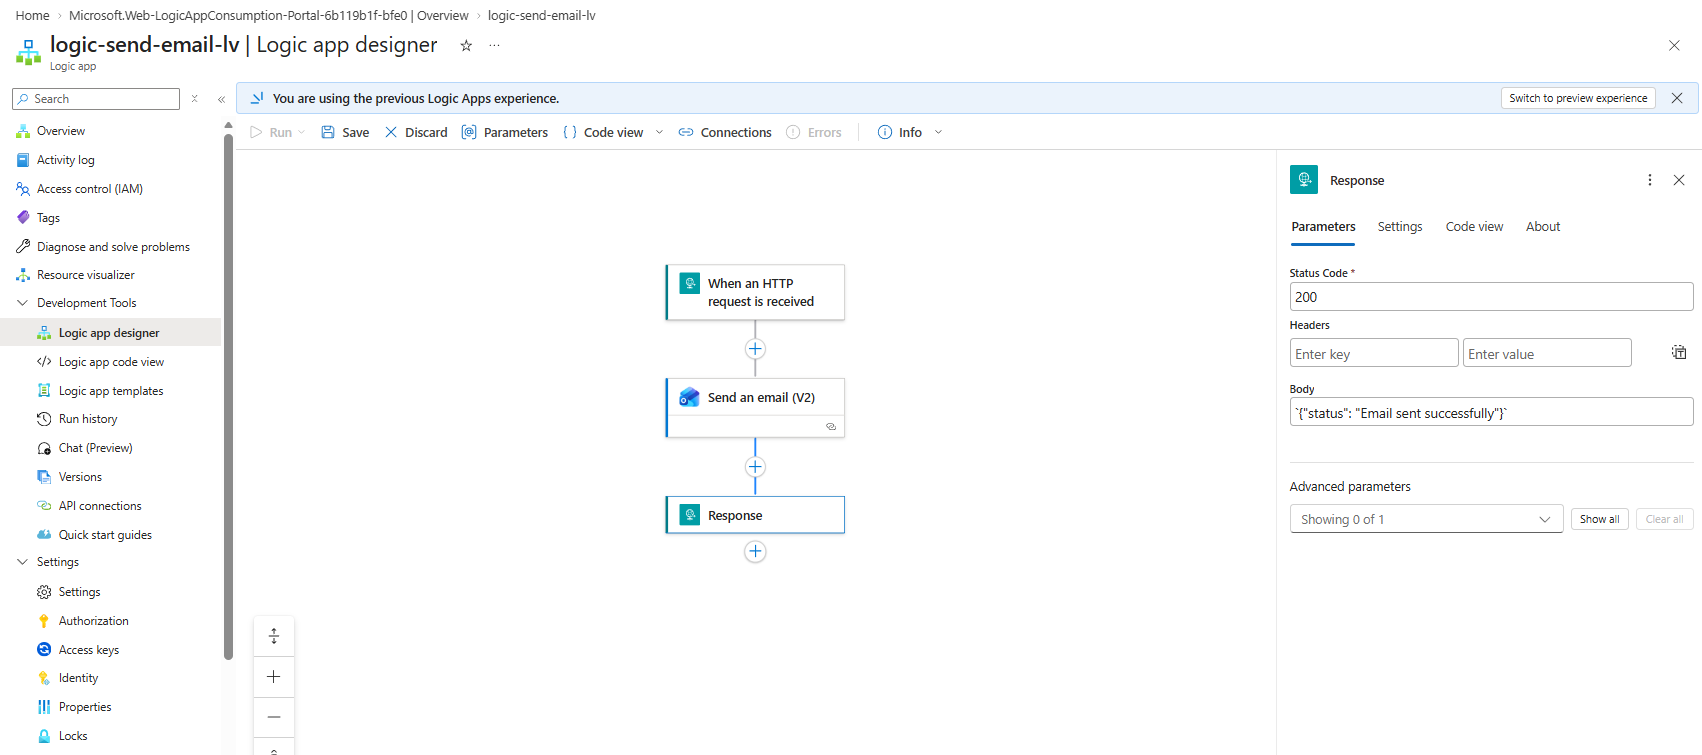
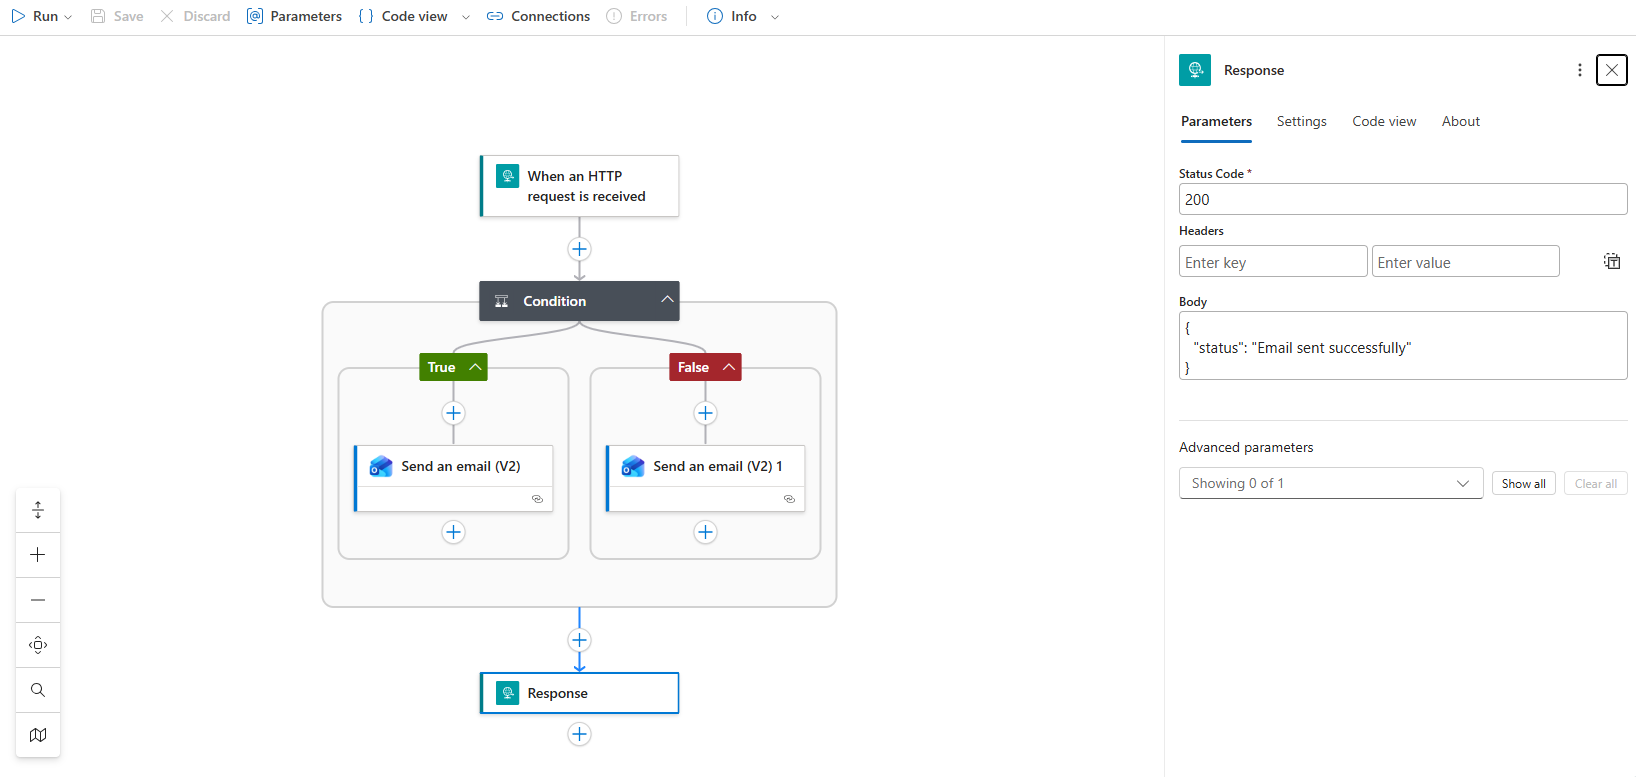
Updated logic app instructions for sending email

diff --git a/lab-5-email-logic-app.md b/lab-5-email-logic-app.md
@@ -1,6 +1,7 @@
 # Lab 5: Create a Custom API Tool with Logic Apps
 
-[← Back to Workshop Overview](./README.md) | [← Previous: Lab 4](./lab-4-word-document-tool.md)
+[← Back to Workshop Overview](./README.md) |
+[← Previous: Lab 4](./lab-4-word-document-tool.md)
 
 ---
 
@@ -8,7 +9,9 @@
 
 ## Overview
 
-In this lab you'll create an **Azure Logic App** with an HTTP trigger that sends emails, then register it as a **custom tool** in your Foundry Agent. This demonstrates how agents can call external APIs to take real-world actions.
+In this lab you'll create an **Azure Logic App** with an HTTP trigger that sends
+emails, then register it as a **custom tool** in your Foundry Agent. This
+demonstrates how agents can call external APIs to take real-world actions.
 
 ---
 
@@ -17,6 +20,7 @@ In this lab you'll create an **Azure Logic App** with an HTTP trigger that sends
 ### What is Azure Logic Apps?
 
 Azure Logic Apps is a cloud service for automating workflows:
+
 - **No-code/low-code**: Visual designer for building workflows
 - **Connectors**: 400+ pre-built connectors (Office 365, Outlook, Teams, etc.)
 - **Triggers**: Start workflows via HTTP requests, schedules, or events
@@ -25,6 +29,7 @@ Azure Logic Apps is a cloud service for automating workflows:
 ### Why Logic Apps for Agent Tools?
 
 Logic Apps are a great fit for agent tools because:
+
 1. **HTTP trigger** → The agent calls them via a simple POST request
 2. **No code** → The workflow is built visually in the portal
 3. **Rich connectors** → Send emails, post to Teams, create calendar events
@@ -42,7 +47,8 @@ flowchart LR
     E -->|Response| A
 ```
 
-The agent determines when to call the tool based on the user's request, formats the parameters as JSON, and sends them to the Logic App's HTTP endpoint.
+The agent determines when to call the tool based on the user's request, formats
+the parameters as JSON, and sends them to the Logic App's HTTP endpoint.
 
 ---
 
@@ -51,7 +57,8 @@ The agent determines when to call the tool based on the user's request, formats 
 1. Open the **Azure Portal** (portal.azure.com)
 2. Click **+ Create a resource** on the left panel
 3. Search for **Logic App** and click on **Create**
-4. Select **Consumption** (Multi-tenant) as the hosting option and click **Select**
+4. Select **Consumption** (Multi-tenant) as the hosting option and click
+   **Select**
 5. Fill in the details:
    - **Subscription**: Select your subscription
    - **Resource Group**: `rg-foundry-workshop-[yourname]`
@@ -68,11 +75,12 @@ The agent determines when to call the tool based on the user's request, formats 
 
 ## Step 2: Design the Workflow
 
-1. In the Logic App, click **Logic app designer** (left menu under Development Tools)
+1. In the Logic App, click **Logic app designer** (left menu under Development
+   Tools)
 2. You'll see the designer with a trigger step. Click **Add a trigger**
 3. Select **Request** Under **Built-in-tools**.
-4. Then select **When an HTTP request is received**.
-In the **Request Body JSON Schema**, paste:
+4. Then select **When an HTTP request is received**. In the **Request Body JSON
+   Schema**, paste:
 
 ```json
 {
@@ -86,9 +94,9 @@ In the **Request Body JSON Schema**, paste:
       "type": "string",
       "description": "Email subject line"
     },
-    "body": {
+    "emailBody": {
       "type": "string",
-      "description": "Email body content"
+      "description": "HTML email body content"
     },
     "attachment_name": {
       "type": "string",
@@ -99,48 +107,63 @@ In the **Request Body JSON Schema**, paste:
       "description": "HTML-formatted document content"
     }
   },
-  "required": ["to", "subject", "body"]
+  "required": ["to", "subject", "emailBody"]
 }
 ```
 
 4. In the visual workflow, click **+** → **Add an action**
 5. Search for **Control** → Select **Condition**
-6. In the Condition, configure:
-   - Click **Choose a value** (left side), click the **lightning bolt** icon (⚡), and select **attachment_name**
-   - Set the operator to **is not equal to**
-   - Click **Choose a value** (right side) and type `null`
+6. In the Condition, configure the request **body** to **contains**
+   `attachment_name`. This checks whether the optional attachment property was
+   included in the request:
+   - Click **Choose a value** (left side), click the **lightning bolt** icon
+     (⚡), and select **body** from the HTTP request trigger.
+   - Set the operator to **contains**.
+   - Click **Choose a value** (right side) and enter `attachment_name`.
 7. In the **True** branch (has attachment), click **Add an action**:
    - Search for **Office 365 Outlook** → Select **Send an email (V2)**
    - Sign in with your Microsoft 365 account when prompted
    - **To**: Click the lightning bolt icon and select **to**
    - **Subject**: Click the lightning bolt icon and select **subject**
-   - **Body**: Click the lightning bolt icon and select **body**
-   - Under **Advanced parameters**, click **Show all**. Under Attachments, click **Add new item**. Set **Name** to `attachment_name` (lightning bolt) and **Attachments Content** to the expression `base64(triggerBody()?['attachment_content'])` (click the **fx** button to enter expression mode)
+   - **Body**: Click the `<>` icon at the top right of the field (you may need
+     to extend the side tab to see it), you'll enter "code mode". **Remove all
+     the content from the field**, click the lightning bolt icon and select
+     **emailBody**. ![](./images/logic-app-email-body.png)
+   - Under **Advanced parameters**, click **Show all**. Under Attachments, click
+     **Add new item**. Set **Name** to `attachment_name` (lightning bolt) and
+     **Attachments Content** to the expression
+     `base64(triggerBody()?['attachment_content'])` (click the **fx** button to
+     enter expression mode). ![](./images/logic-app-email-summary.png)
 8. In the **False** branch (no attachment), click **Add an action**:
    - Search for **Office 365 Outlook** → Select **Send an email (V2)**
    - **To**: lightning bolt → **to**
    - **Subject**: lightning bolt → **subject**
-   - **Body**: lightning bolt → **body**
+   - **Body**: Click the `<>` icon at the top right of the field (you may need
+     to extend the side tab to see it), you'll enter "code mode". **Remove all
+     the content from the field**, click the lightning bolt icon and select
+     **emailBody**. ![](./images/logic-app-email-body.png)
    - (No attachments needed here)
-9. Below the Condition block, click **+** → **Add an action** → Search for **Response** → Select **Response**
+9. Below the Condition block, click **+** → **Add an action** → Search for
+   **Response** → Select **Response**
 10. Configure the response:
     - **Status Code**: `200`
     - **Body**: `{"status": "Email sent successfully"}`
 11. Click **Save**
 
-![Logic app workflow](./images/logic-app-2.png)
----
+## ![Logic app workflow with attachment condition](./images/logic-app-2.png)
 
 ## Step 3: Get the HTTP URL
 
-After saving, the HTTP trigger will show a **HTTP POST URL** at the top of the trigger step.
+After saving, the HTTP trigger will show a **HTTP POST URL** at the top of the
+trigger step.
 
 1. Click on the "When a HTTP request is received" step
-2. Copy the **HTTP POST URL**. You'll need this for the next step
+2. Copy the **HTTP URL**. You'll need this for the next step
 
 ![Logic app workflow](./images/logic-app-3.png)
 
-> ⚠ **Keep this URL secure**. It contains a SAS token that allows anyone with it to trigger your Logic App.
+> ⚠ **Keep this URL secure**. It contains a SAS token that allows anyone with
+> it to trigger your Logic App.
 
 ---
 
@@ -153,11 +176,14 @@ Now register this Logic App as a custom tool directly from your agent:
 3. In the **Tools** section, click **Add** > **Custom tool** > **OpenAPI**
 4. Fill in the details:
    - **Name**: `SendEmail`
-   - **Description**: `Sends an email to a specified recipient with a subject and body. Use this when the user asks to send, compose, or draft an email.`
+   - **Description**:
+     `Sends an email to a specified recipient with a subject and HTML email body. Use this when the user asks to send, compose, or draft an email.`
    - **Authentication method**: **Anonymous**
-5. In the **OpenAPI 3.0+ schema** field, paste the following JSON. Replace the `url` and path with your own Logic App URL from Step 3:
+5. In the **OpenAPI 3.0+ schema** field, paste the following JSON. Replace the
+   `url` and path with your own Logic App URL from Step 3:
 
-> 💡 To split your URL: everything before `/invoke` goes in `servers.url`, and `/invoke?...` (including all query parameters) becomes the path key.
+> 💡 To split your URL: everything before `/invoke` goes in `servers.url`, and
+> `/invoke?...` (including all query parameters) becomes the path key.
 
 ```json
 {
@@ -177,7 +203,7 @@ Now register this Logic App as a custom tool directly from your agent:
       "post": {
         "operationId": "sendEmail",
         "summary": "Send an email to a recipient",
-        "description": "Sends an email with the specified recipient, subject, and body",
+        "description": "Sends an email with the specified recipient, subject, and HTML email body",
         "requestBody": {
           "required": true,
           "content": {
@@ -193,9 +219,9 @@ Now register this Logic App as a custom tool directly from your agent:
                     "type": "string",
                     "description": "Email subject line"
                   },
-                  "body": {
+                  "emailBody": {
                     "type": "string",
-                    "description": "Email body content"
+                    "description": "HTML email body content"
                   },
                   "attachment_name": {
                     "type": "string",
@@ -206,7 +232,7 @@ Now register this Logic App as a custom tool directly from your agent:
                     "description": "HTML-formatted content for the Word document. Use proper HTML tags (html, head, body, h1, h2, p, table, etc). Do NOT base64 encode. The server handles encoding."
                   }
                 },
-                "required": ["to", "subject", "body"]
+                "required": ["to", "subject", "emailBody"]
               }
             }
           }
@@ -236,7 +262,7 @@ You are NovaPharma's regulatory affairs assistant. You help regulatory affairs t
 Capabilities:
 1. Knowledge Base: Answer questions using the connected product portfolio and regulatory guidelines
 2. Document Generation: When asked to create or fill in a document, use the code interpreter to generate it. A Product Summary Report template is available as a reference for the standard format.
-3. Email: When asked to send an email, use the SendEmail tool. Always confirm the recipient, subject, and body with the user before sending.
+3. Email: When asked to send an email, use the SendEmail tool. Always confirm the recipient, subject, and emailBody with the user before sending. Set emailBody to well-formatted HTML so the email is readable and multiline in the recipient's email client; use tags such as <p>, <br>, and <ul> where appropriate.
 4. Email with attachment: When asked to email a generated document as a Word file, use code interpreter to generate the document content as a well-formatted HTML string (with <html>, <head>, <body>, <h1>, <h2>, <p>, <table> tags as appropriate). Then call SendEmail with attachment_name ending in .doc (e.g. "Product_Summary_NovaRelief.doc") and attachment_content set to the HTML string. Do NOT base64 encode it. The server handles encoding, and Word opens HTML-based .doc files natively.
 
 When answering questions:
@@ -247,7 +273,7 @@ When answering questions:
 
 When sending emails:
 - Always confirm details with the user before actually sending
-- Format the email body professionally
+- Format emailBody as professional HTML, using paragraphs and line breaks for a readable multiline email
 - Include relevant information from the knowledge base when applicable
 ```
 
@@ -259,40 +285,60 @@ Click **Save** on the top right.
 
 In the chat panel, try:
 
-**Test 1: Direct email request** - replace with a real email address
+**Test 1: Direct email request** - replace the placeholder with your email
+address
+
 ```
-Send an email to test@example.com with the subject "Hello from the workshop" and body "This is a test email from our Foundry agent!"
+Send an email to [ENTER YOUR EMAIL ADDRESS] with the subject "Hello from the workshop" and email body "This is a test email from our Foundry agent!"
 ```
 
 The agent should:
-1. Recognize this as an email request
-2. Confirm the details with you
-3. Call the `send-email` tool
-4. Report success or failure
 
-**Test 2: Knowledge + email combo** - replace with a real email address
+1. Recognize this as an email request.
+2. Confirm the details with you.
+3. Call the `send-email` tool.
+4. Report success or failure.
+
+**Test 2: Knowledge + email combo** - replace the placeholder with your email
+address
+
 ```
-Look up the contraindications for CardioShield and send a summary to regulatory@novapharma.eu
+Look up the contraindications for CardioShield and send a summary to [ENTER YOUR EMAIL ADDRESS]
 ```
 
 The agent should:
+
 1. Query the knowledge base for CardioShield contraindications
 2. Compose an email with the summary
 3. Confirm before sending
 4. Call the email tool
 
-**Test 3: Generate document and email it** - replace with a real email address
+**Test 3: Generate document and email it** - replace the placeholder with your
+email address
+
 ```
-Generate a product summary report for NovaRelief and email it as a Word document to regulatory@novapharma.eu
+Generate a product summary report for NovaRelief and email it as a Word document to [ENTER YOUR EMAIL ADDRESS]
 ```
 
 The agent should:
+
 1. Use Code Interpreter to generate the report as an HTML document
 2. Ask you to confirm before sending
-3. Call the SendEmail tool with `attachment_name` (e.g. "Product_Summary_NovaRelief.doc") and `attachment_content` (the HTML string)
-4. You should receive the email with a .doc file attached that opens in Microsoft Word
+3. Call the SendEmail tool with `attachment_name` (e.g.
+   "Product_Summary_NovaRelief.doc") and `attachment_content` (the HTML string)
+4. You should receive the email with a .doc file attached that opens in
+   Microsoft Word
 
-> 💡 **Why HTML instead of .docx?** Foundry's OpenAPI tool calls have a parameter size limit of ~14,000 characters. A real `.docx` file is binary, and even a simple report becomes ~50,000+ characters when base64-encoded, which gets truncated. By sending HTML content (~5,000 characters for the same report) with a `.doc` extension, we stay well within the limit. Word opens HTML-based `.doc` files natively, so the recipient experience is the same.
+> 💡 **Why HTML instead of .docx?** Foundry's OpenAPI tool calls have a
+> parameter size limit of ~14,000 characters. A real `.docx` file is binary, and
+> even a simple report becomes ~50,000+ characters when base64-encoded, which
+> gets truncated. By sending HTML content (~5,000 characters for the same
+> report) with a `.doc` extension, we stay well within the limit. Word opens
+> HTML-based `.doc` files natively, so the recipient experience is the same.
+
+> ⚠ **Attachment delivery can take longer:** Email providers may scan
+> attachments for vulnerabilities before delivery. Allow extra time for emails
+> with attachments to arrive.
 
 ---
 
@@ -307,26 +353,35 @@ In this lab, you:
 - ✅ Tested agent-triggered email sending
 - ✅ Tested generating a document and emailing it as an attachment
 
-Your agent can now send emails on behalf of the user, a real-world action triggered by natural language!
+Your agent can now send emails on behalf of the user, a real-world action
+triggered by natural language!
 
 ---
 
 ## 💡 Tips
 
-- **Testing without sending**: Use a personal email address for testing, or add a condition in the Logic App to skip sending in dev mode
-- **Logic App monitoring**: Check the Logic App's **Run history** in the Azure Portal to see execution details
-- **Error handling**: Add a "Condition" step in the Logic App to handle cases where the email connector fails
-- **Other actions**: Logic Apps can also post to Teams, create calendar events, write to SharePoint, and more. Any of these could be registered as additional tools
+- **Testing without sending**: Use a personal email address for testing, or add
+  a condition in the Logic App to skip sending in dev mode
+- **Logic App monitoring**: Check the Logic App's **Run history** in the Azure
+  Portal to see execution details
+- **Error handling**: Add a "Condition" step in the Logic App to handle cases
+  where the email connector fails
+- **Other actions**: Logic Apps can also post to Teams, create calendar events,
+  write to SharePoint, and more. Any of these could be registered as additional
+  tools
 
 ---
 
 ## 🔒 Security Considerations
 
 - The Logic App HTTP URL contains a SAS key. Treat it like a password
-- In production, use Azure API Management or managed identity instead of SAS URLs
+- In production, use Azure API Management or managed identity instead of SAS
+  URLs
 - Consider adding input validation in the Logic App to prevent misuse
-- The Office 365 connector uses delegated permissions tied to the signed-in account
+- The Office 365 connector uses delegated permissions tied to the signed-in
+  account
 
 ---
 
-[← Back to Workshop Overview](./README.md) | [← Previous: Lab 4](./lab-4-word-document-tool.md)
+[← Back to Workshop Overview](./README.md) |
+[← Previous: Lab 4](./lab-4-word-document-tool.md)
